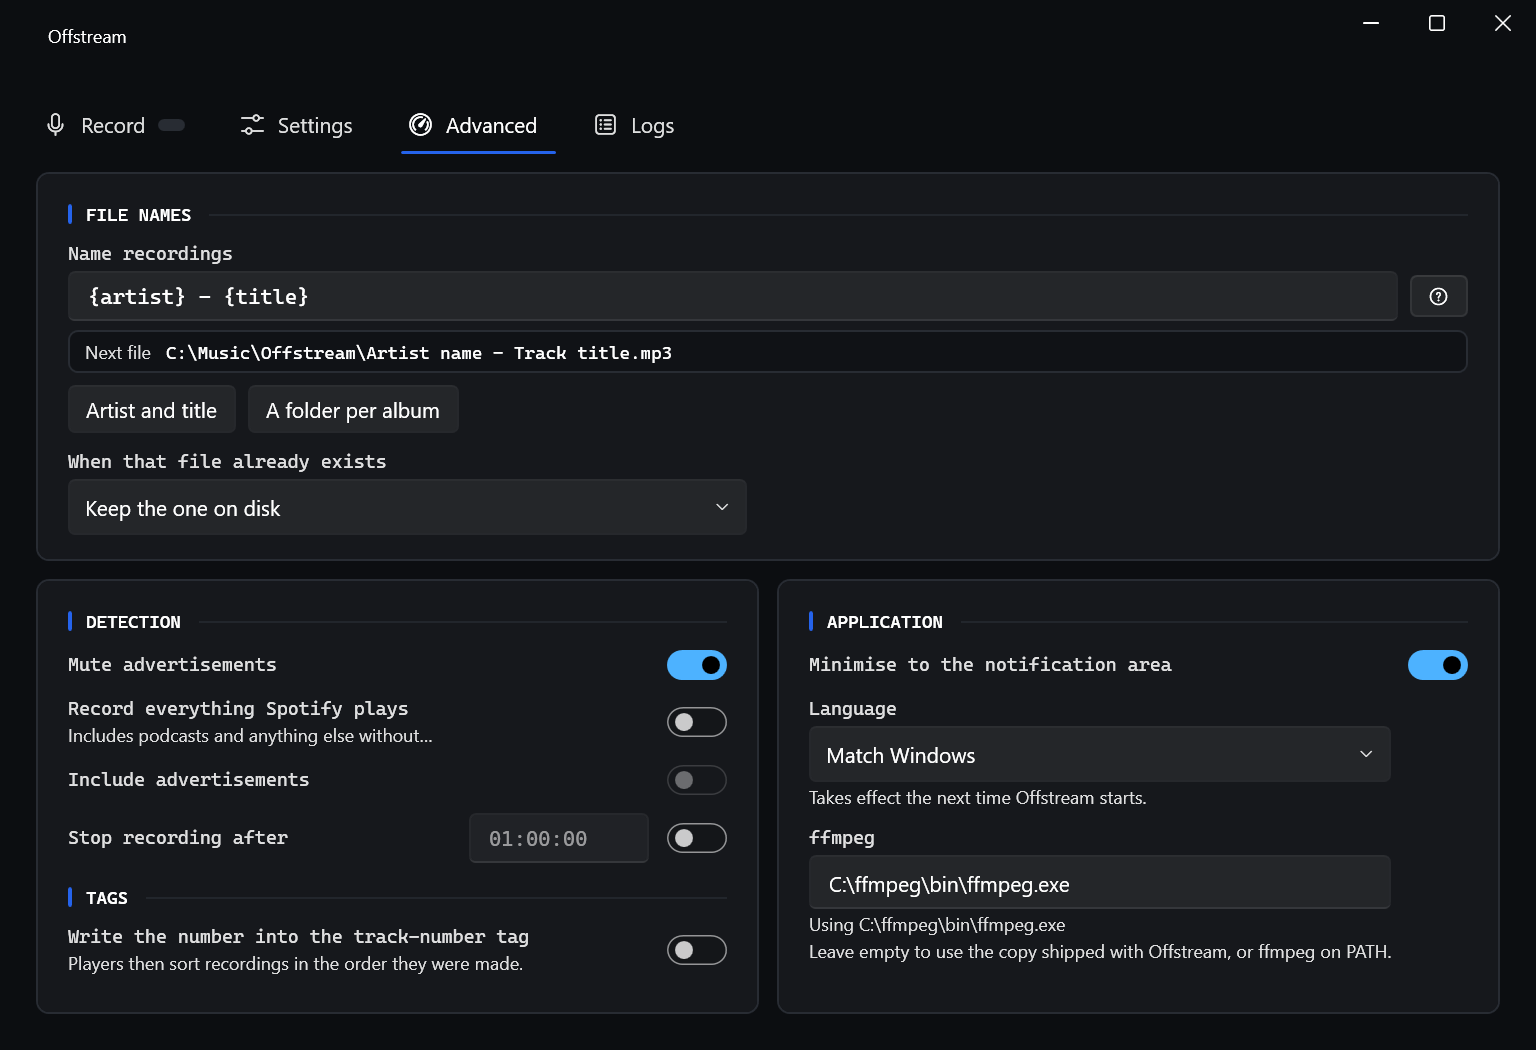
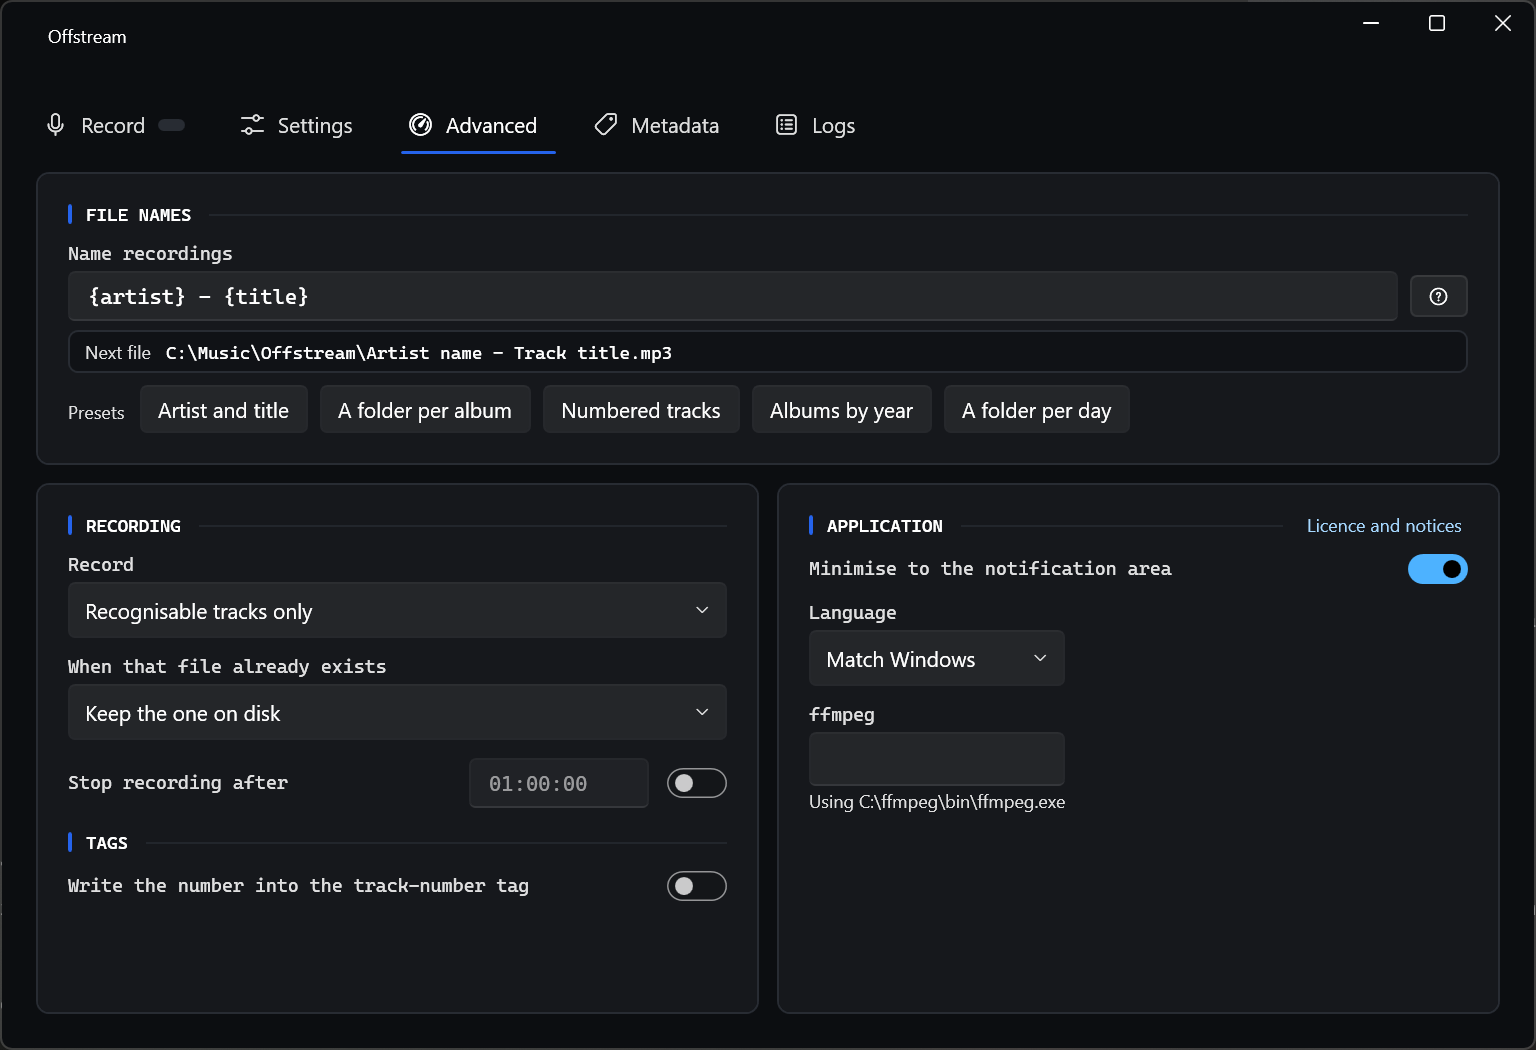
Retake the screenshots and cut the Metadata section down to its neighbours' size (#49)
* Retake the screenshots and cut the Metadata section down to its neighbours' size

Every screenshot in the README predated the Metadata tab, so the nav strip in all
three showed four tabs where the app has five — the first thing a reader compares
against their own window, and it disagreed. The Advanced shot was worse than stale:
it still showed the three advertisement switches that 0.2.0 replaced with a single
Record dropdown, two filename presets instead of five, and a line of prose under
each setting from before those became tooltips. Someone following it would have
gone looking for controls that are not there.

Settings and Advanced are retaken from a staged profile, which is why the paths in
them read C:\Music\Offstream and C:\ffmpeg\bin\ffmpeg.exe — both are the examples
the surrounding prose already calls examples, and neither carries a real user name.
Settings is cropped to 990 as it was before, which keeps the footer's absolute
settings path out of a published image. The provider now reads Last.fm rather than
Nothing, so the shot agrees with the paragraph below it that says Offstream starts
with Last.fm selected and asks for a key on first run.

Metadata had no screenshot at all, alone among the pages, and the section describing
it ran to 64 lines against 28 and 38 for the two either side of it. Most of that was
two paragraphs of prose doing work a screenshot does better: the list beside the
[…]

diff --git a/README.md b/README.md
@@ -135,58 +135,43 @@ Offstream tags a recording while it makes it, so a track recorded before you set
 or while Last.fm was down, or whose title Spotify reported oddly — keeps whatever thin tags it got
 at the time. The **Metadata** tab is where you repair those.
 
+![The Offstream Metadata page: the scanned library on the left with cover art and Will change badges, and the selected track's tag editor on the right — its fields scroll, with the search box pinned below them](docs/images/metadata.png)
+
 1. **Scan Directory** reads every taggable file in the folder shown. It starts at your recordings
    folder; **Browse…** points it somewhere else, so a library Offstream didn't record works too.
 2. **Auto-Fetch Metadata** looks up the files that are missing a title, artist or album. Spotify is
    asked first if you're signed in, then Last.fm if you have a key. Files that already have all
-   three are left alone and cost no lookup — use **Re-fetch** on a row when its tags are complete
-   but wrong.
-3. **Save Selected Tags** writes the ticked rows into the files.
+   three are left alone and cost no lookup — use **Re-fetch** in the editor when a track's tags
+   are complete but wrong.
+3. **Save Selected Tags** writes the ticked rows into the files. Nothing reaches a file before that.
 
-Nothing reaches a file until you press Save. The page is a list beside an editor. Each file is one
-row showing what *would* be written — the title, then the artist and album, then the file it came
-from — and clicking a row, or arrowing onto it, fills the pane on the right with its tags as
-editable boxes: Title, Artist, Album artist, Album, Genre, Year, Disc, Track, Tracks on album and
-Copyright. That is every tag Offstream writes while recording, so anything it can put into a file
-it can also repair. There is a **was …** line under anything you'd be changing, so a match
-that got the remix wrong is a correction rather than a reason to start over. The pane stays the
-same size and in the same place whichever row you pick, so the library never moves out from under
-you while you're working on one of its files. Rows that would actually alter a file are marked
-**Will change**, which is how you find the three that need attention without reading the other
-hundred. Artwork a lookup found is shown under the boxes, before and after, since it is the one
-thing Save writes that you can't type.
+Clicking a row fills the editor on the right: title, artist, album artist, album, genre, year, disc,
+track, tracks on album and copyright — every tag Offstream writes while recording, so anything it
+can put into a file it can also repair. A **was …** line sits under anything you'd be changing, and
+artwork a lookup found is shown below the boxes, before and after.
 
-Only what a lookup actually found is proposed: a provider with no genre for a track leaves the
-file's own alone rather than offering to remove it. Save writes no blank over a value either, so
-emptying a box leaves that tag as it was — clear a box to stop Offstream changing something, not
-to erase it. Type a comma into **Genre** to give a track more than one; **Artist** and **Album
-artist** take the name as you write it, commas and all, because "Earth, Wind & Fire" is one band.
-A file whose artist tag already holds several names shows the first in the box and keeps all of
-them on Save unless you type over it.
-
-**Filter** narrows the list to the rows whose title, artist, album or file name contain what you
-type. It only changes what is on screen: Save still writes every ticked row, including the ones the
-filter is hiding.
+- **Will change** marks the rows that would actually alter a file, which is how you find the three
+  that need attention without reading the other hundred.
+- **Filter** narrows the list by title, artist, album or file name. It only changes what is on
+  screen: Save still writes every ticked row, including the ones the filter is hiding.
 
 ### When the match is wrong
 
-Untick the row and nothing happens to that file. To fix it instead, either type the correct values
-into Title, Artist and Album — they're yours to edit and they win over anything a lookup found —
-or use **Not the right track?** at the foot of the pane. The box starts filled in with the row's
-artist and title, so it is usually a word or two away from the right query, and it keeps its place
-at the bottom so results appear where you were already looking. It searches
-Spotify for whatever you type and lists what it finds, with the year beside each result so you can tell a remaster from
-the original, and **Use this** fills the row in from the one you pick.
+Untick the row and nothing happens to that file. To fix it instead, type over the boxes — your
+edits win over anything a lookup found — or use **Not the right track?** at the foot of the pane,
+which searches Spotify for whatever you type and lists what it finds, with the year beside each
+result so you can tell a remaster from the original. **Use this** fills the row in from the one you
+pick, cover art included.
 
-Reach for the search rather than **Re-fetch** whenever the artist is the thing that's wrong.
-Re-fetch asks the same question the automatic lookup already asked — built from the file's own
-fields, and refusing any result whose artist disagrees with them — so it returns the same answer
-however many times you press it. The search takes your words instead, which is the only way to
-reach a track the file's tags point away from. Picking a result also replaces the cover art, since
-the old one belongs to whatever the file used to claim to be.
+Reach for that search rather than **Re-fetch** whenever the artist is the thing that's wrong.
+Re-fetch builds its query from the file's own fields and refuses any result that disagrees with
+them, so it cannot reach a track those fields point away from.
 
 A few things worth knowing:
 
+- **Clearing a box stops Offstream changing that tag; it doesn't erase it.** Save writes no blank
+  over a value, and a lookup that found no genre leaves the file's own alone.
+- **Commas separate genres, not names.** "Earth, Wind & Fire" in an artist box stays one band.
 - **`.wav` files are skipped**, and the page says how many. WAV has no tag format players agree on,
   so a row for one would look editable and then fail when you saved it.
 - **A file that's open elsewhere can't be written.** If you're playing the track you're retagging,
@@ -197,7 +182,7 @@ A few things worth knowing:
 
 The **Advanced** page is where the details live.
 
-![The Offstream Advanced page: filename template with a live preview, detection options, tag options and app options](docs/images/advanced.png)
+![The Offstream Advanced page: filename template with a live preview, recording options, tag options and application options](docs/images/advanced.png)
 
 **File names** are a template with a live preview, so you can see exactly what the next file will be
 called before you record anything. Use `\` to make folders — `{artist}\({year}) {album}\{track:00}
